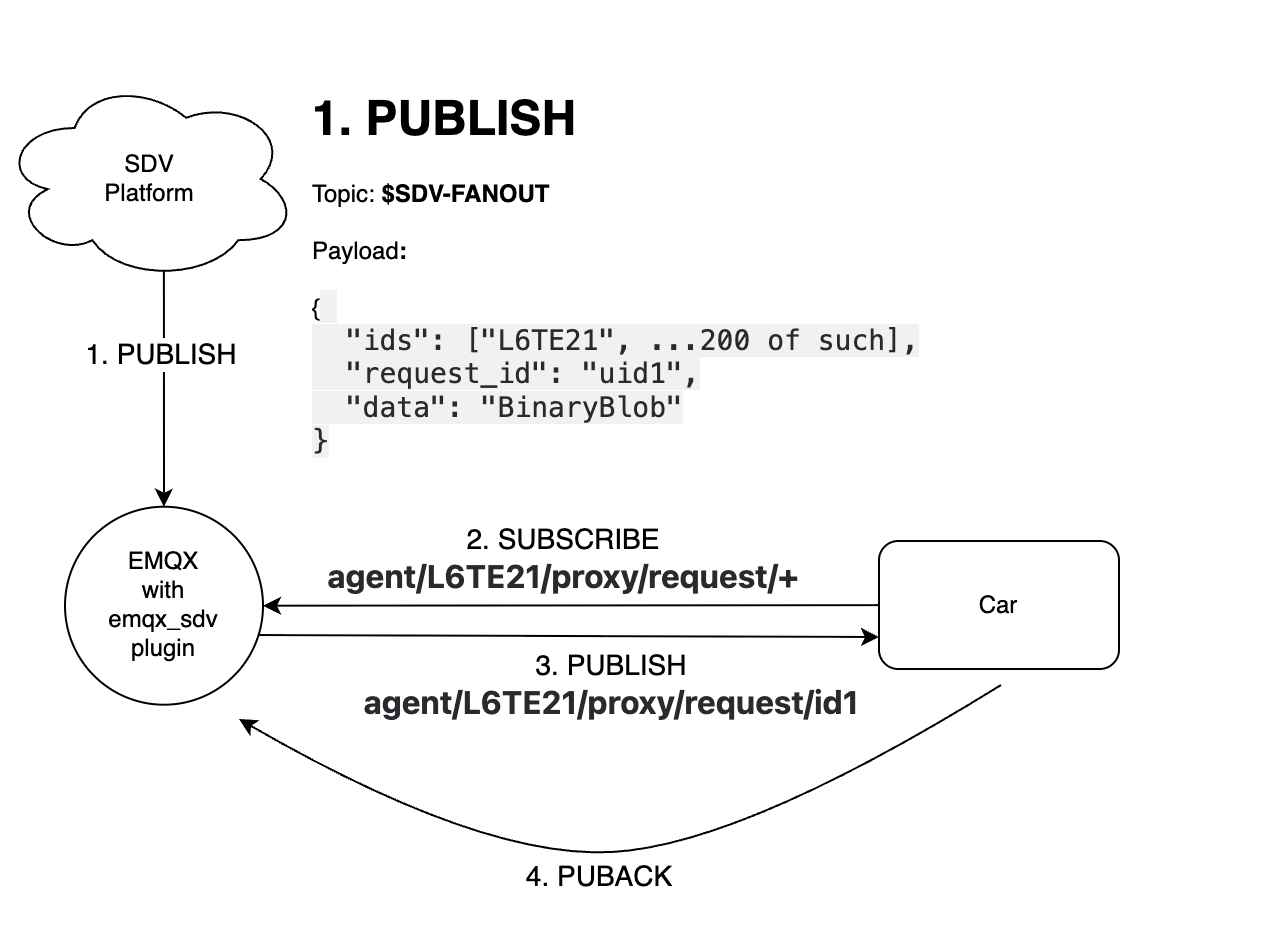
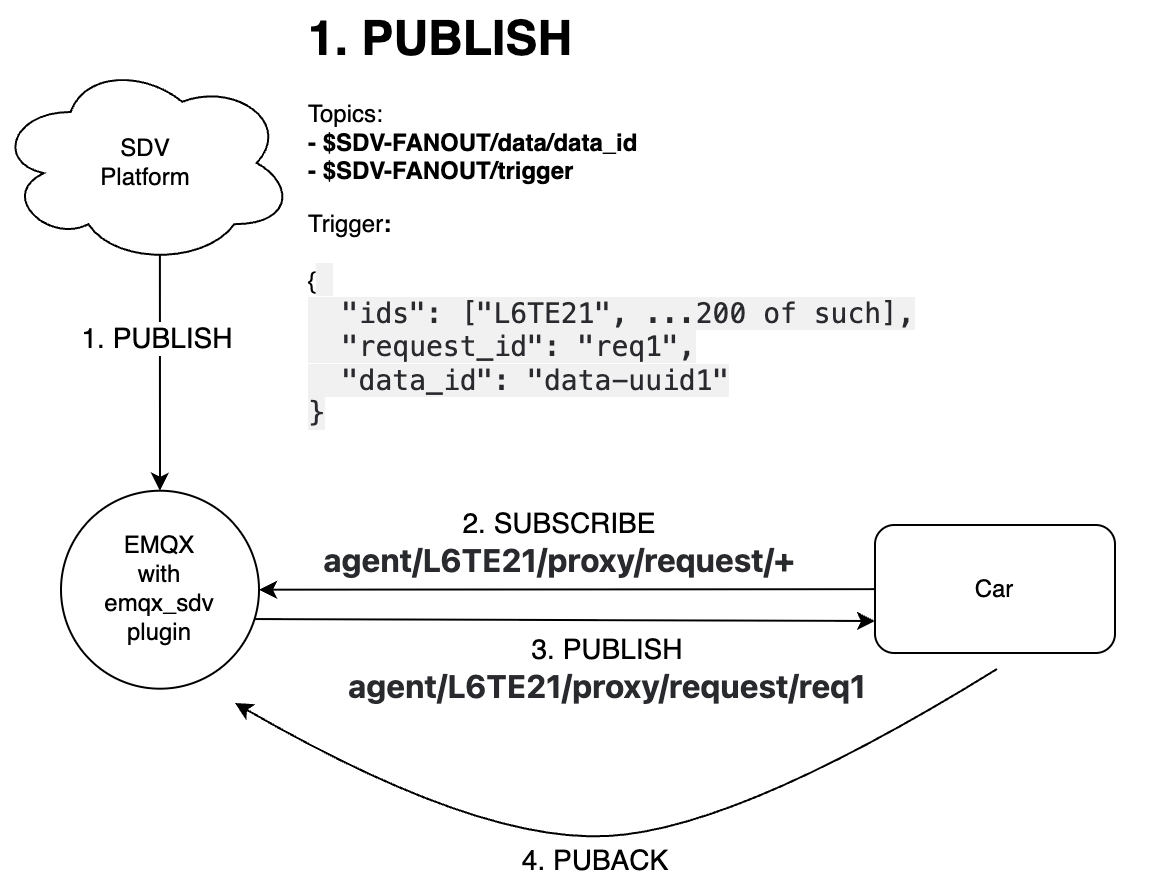
refactor: use separate topics for data and trigger

diff --git a/README.md b/README.md
@@ -45,12 +45,14 @@ The `sdv_fanout_data` and `sdv_fanout_ids` table will be deleted if the timestam
 
 This plugin starts a pool of dispatcher processes to fanout the data to the locally connected subscribers.
 
+The data is published to EMQX from SDV platform to the topic `$SDV-FANOUT/data/<data_id>`, and the batch fanout-trigger is published to the topic `$SDV-FANOUT/trigger`.
+
 Below are the events which will trigger the fanout to the subscribers:
 
 ### Dispatch Triggers
 
-- **Batch Received**:
-  When a new batch is received, the publishing client will trigger the fanout data (and IDs) to be written to the database, then send notification to the dispatcher pool.  Depending on the session lookup result (pid), the notification `{maybe_send, new_batch, Pid, VIN}` should be sent to a dispatcher in the pool or an `rpc` call to a remote node to do the same.
+- **Batch Trigger Received**:
+  When a new batch trigger is received, the publishing client will trigger the and IDs to be written to the database, then send notification to the dispatcher pool. Depending on the session lookup result (pid), the notification `{maybe_send, new_batch, Pid, VIN}` will be sent to a dispatcher in the pool or an `rpc` call to a remote node to do the same.
 - **Heartbeat**:
   After connected, the vehicle publishes to topic `ecp/${VIN}/online`, then it periodically (every 1m) publishes to the topic `ecp/${VIN}/heartbeat`. The plugin implemented callback (`'message.publish'`) should trigger a `{maybe_send, heartbeat, Pid, VIN}` notification to the dispatcher pool. This is to ensure messages are sent to the vehicle even if other triggers missed due to race conditions. For example, after client session resume it may not observe the new batch being inserted in another node, and the new batch handler in the other node may not see the session being online, hence both nodes miss the opportunity to send the message. This heartbeat is to ensure the message is eventually sent.
 - **PUBACK Received**:
